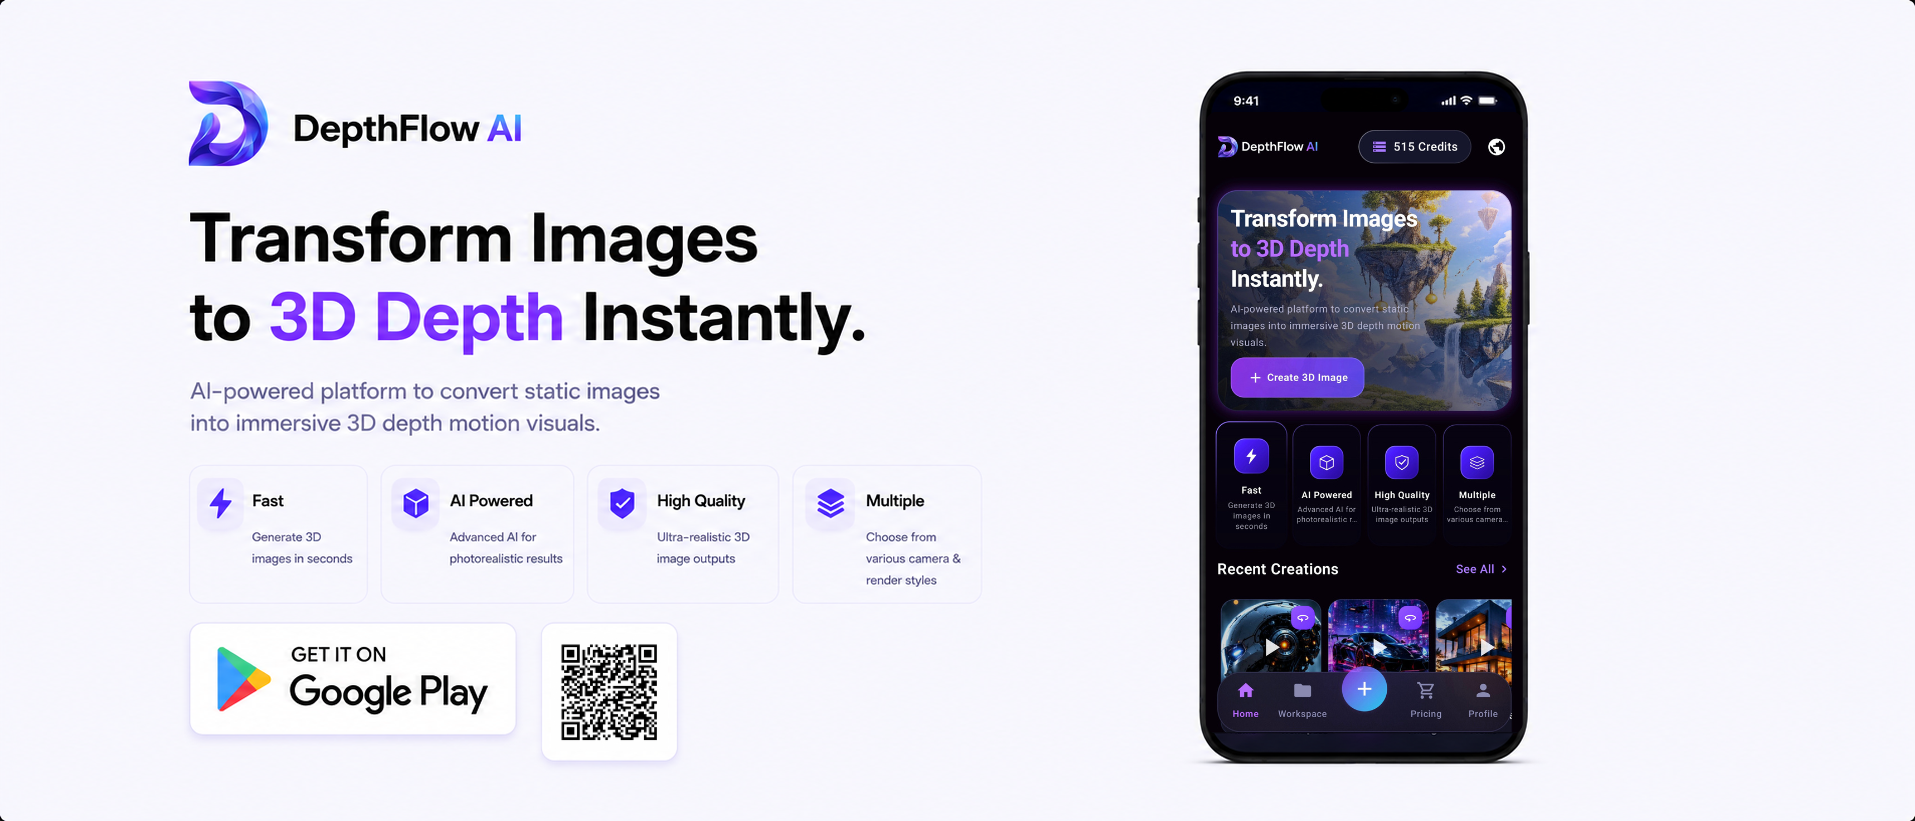
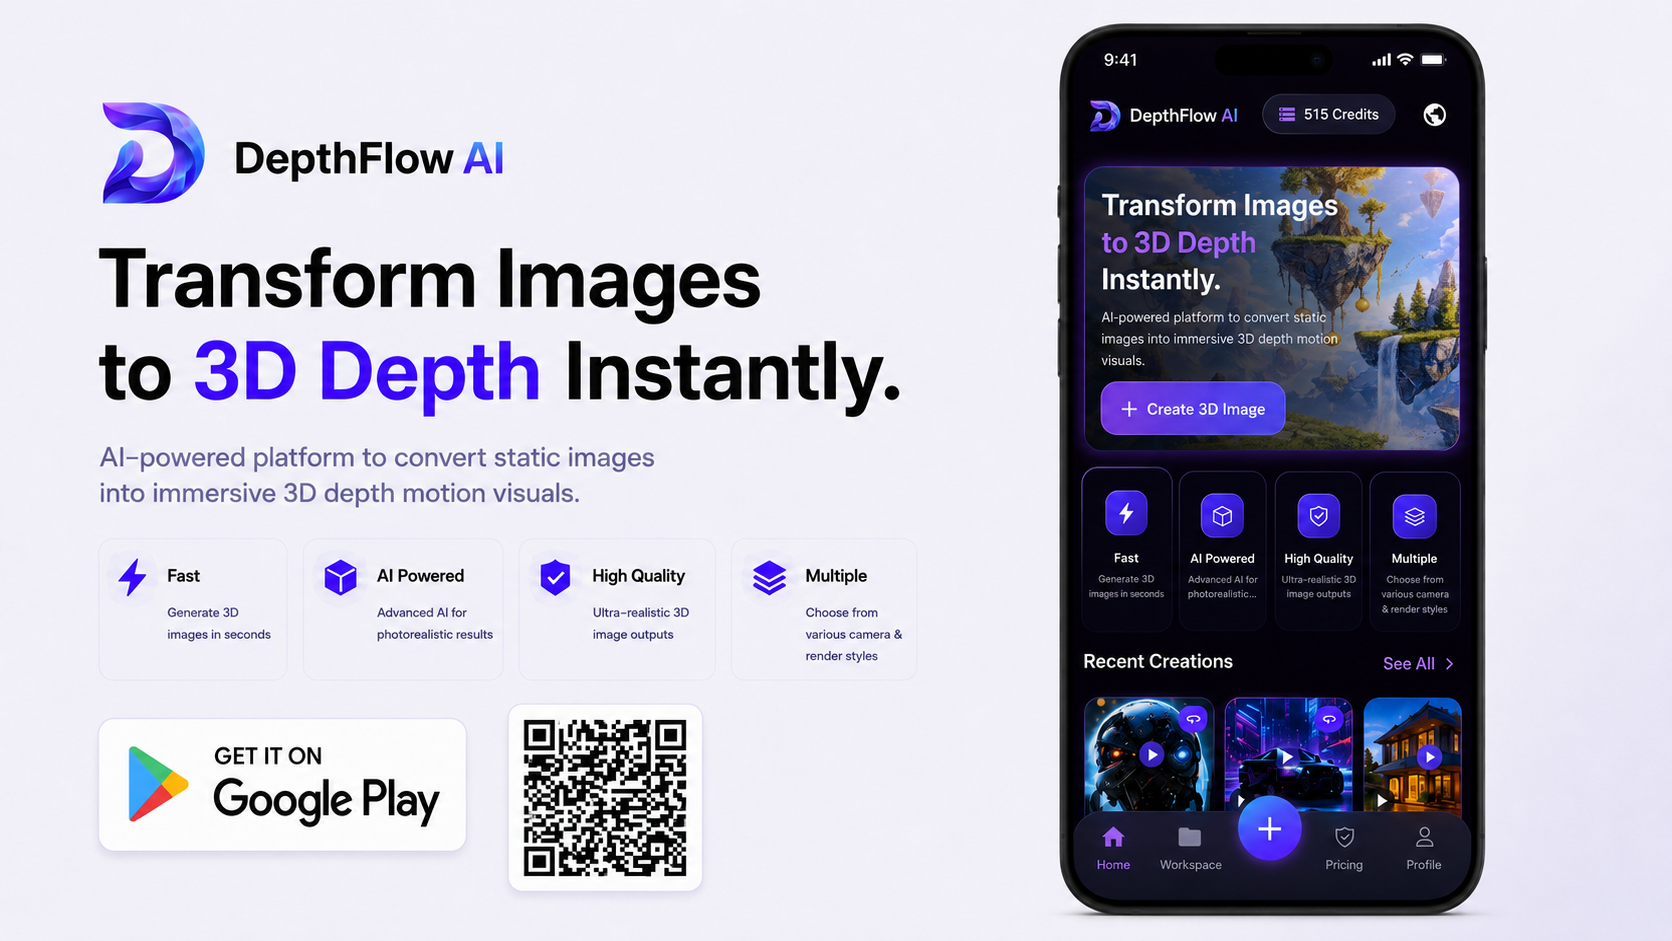
added ad for playstore

diff --git a/src/pages/HomePage.jsx b/src/pages/HomePage.jsx
@@ -3,8 +3,9 @@ import Features from "../components/Features";
 import HomeGallery from "../components/HomeGallery";
 import FAQ from "../components/Faq";
 import ComparisonTable from "../components/Comparision";
-// Make sure this points to your new image file
-import AppBannerImage from "../assets/DepthflowAI App Banner.png"; 
+
+import AppBannerImage from "../assets/DepthflowAI App Banner (1).png";
+import AppBannerImagePhone from "../assets/DepthflowAI App Banner.png";
 
 const HomePage = () => (
   <>
@@ -13,14 +14,33 @@ const HomePage = () => (
     <HomeGallery />
     <ComparisonTable />
     <FAQ />
-    
-    {/* ID added for Navbar scrolling, scroll-mt-24 prevents navbar overlap */}
-    <div id="app-banner" className="flex items-center justify-center w-full max-w-[1400px] mx-auto px-4 my-20 scroll-mt-24">
-        <img 
-          alt="DepthFlow AI App Banner" 
-          src={AppBannerImage} 
-          className="w-full h-auto object-contain" 
+
+    {/* 
+      Edge-to-Edge Full Width Banner 
+      - bg-[#f4f5f9] ensures the light background stretches indefinitely on ultrawide screens.
+      - Centered using flexbox (flex justify-center) on the inner wrapper.
+    */}
+    <div
+      id="app-banner"
+      className="w-full scroll-mt-24 bg-[#f4f5f9] flex justify-center"
+    >
+      <div className="w-full max-w-[1920px] flex justify-center items-center">
+        
+        {/* MOBILE IMAGE: Shows by default, hides on medium (md) screens and up */}
+        <img
+          alt="DepthFlow AI App Banner Mobile"
+          src={AppBannerImagePhone}
+          className="block md:hidden w-full h-auto object-contain"
         />
+
+        {/* DESKTOP IMAGE: Hidden by default, shows on medium (md) screens and up */}
+        <img
+          alt="DepthFlow AI App Banner Desktop"
+          src={AppBannerImage}
+          className="hidden md:block w-full lg:w-[57%] h-auto object-contain"
+        />
+
+      </div>
     </div>
   </>
 );

diff --git a/src/components/Navbar.jsx b/src/components/Navbar.jsx
@@ -91,10 +91,10 @@ const Navbar = ({ onOpenWhatsNew }) => {
                 ?.scrollIntoView({ behavior: "smooth" });
             }
           }}
-          className="flex items-center gap-2 bg-[#050511]/40 border border-slate-700/80 hover:border-slate-500 rounded-lg px-3 py-1.5 transition-all duration-200 cursor-pointer"
+          className="flex items-center gap-1.5 md:gap-2 bg-[#050511]/40 border border-slate-700/80 hover:border-slate-500 rounded-lg px-2.5 py-1.5 md:px-3 transition-all duration-200 cursor-pointer"
         >
-          {/* Google Play Triangle Logo */}
-          <svg viewBox="0 0 512 512" className="w-6 h-6">
+          {/* Google Play Triangle Logo - Scaled down for mobile using w-4 h-4 md:w-6 md:h-6 */}
+          <svg viewBox="0 0 512 512" className="w-4 h-4 md:w-6 md:h-6">
             <path
               fill="#4285f4"
               d="M32.6 15.6c-4.4 4.6-6.6 11.2-6.6 19.3v442.2c0 8.1 2.2 14.7 6.6 19.3l1.1 1.1 247-247v-2.1l-247-247-1.1 1.2z"
@@ -115,10 +115,10 @@ const Navbar = ({ onOpenWhatsNew }) => {
 
           {/* Badge Text */}
           <div className="flex flex-col justify-center">
-            <span className="text-[9px] text-slate-200 font-medium tracking-wide uppercase leading-[1]">
+            <span className="text-[8px] md:text-[9px] text-slate-200 font-medium tracking-wide uppercase leading-[1]">
               Get it on
             </span>
-            <span className="text-[15px] text-white font-semibold tracking-tight leading-[1.1] mt-[2px]">
+            <span className="text-[13px] md:text-[15px] text-white font-semibold tracking-tight leading-[1.1] mt-[2px]">
               Google Play
             </span>
           </div>

diff --git a/src/components/WhatsNewModal.jsx b/src/components/WhatsNewModal.jsx
@@ -189,7 +189,7 @@ const WhatsNewModal = ({ isOpen = true, onClose }) => {
 
               <div className="flex flex-col sm:flex-row items-center gap-4 w-full justify-center">
                 <a
-                  href="YOUR_APP_LINK_HERE"
+                  href="https://play.google.com/store/apps/details?id=com.shin.depthflow"
                   target="_blank"
                   rel="noopener noreferrer"
                   className="w-full sm:w-auto flex items-center justify-center gap-2.5 px-8 py-3 rounded-full text-slate-900 bg-white shadow-[0_0_30px_-5px_rgba(34,211,238,0.5),0_0_30px_-5px_rgba(168,85,247,0.5)] hover:shadow-[0_0_40px_-5px_rgba(34,211,238,0.7),0_0_40px_-5px_rgba(168,85,247,0.7)] hover:scale-105 transition-all duration-300"
